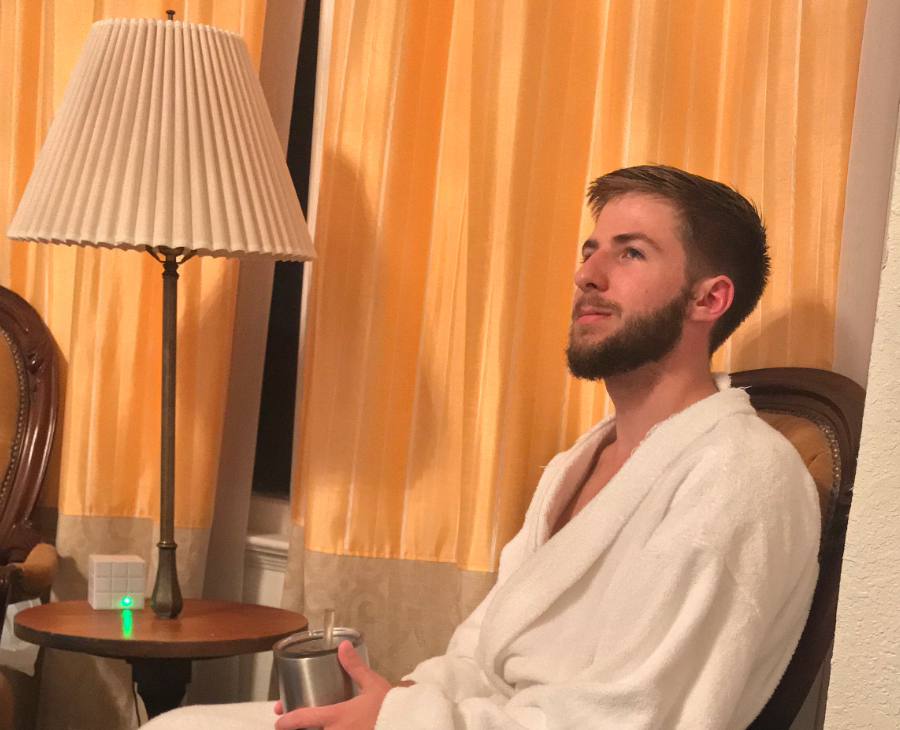
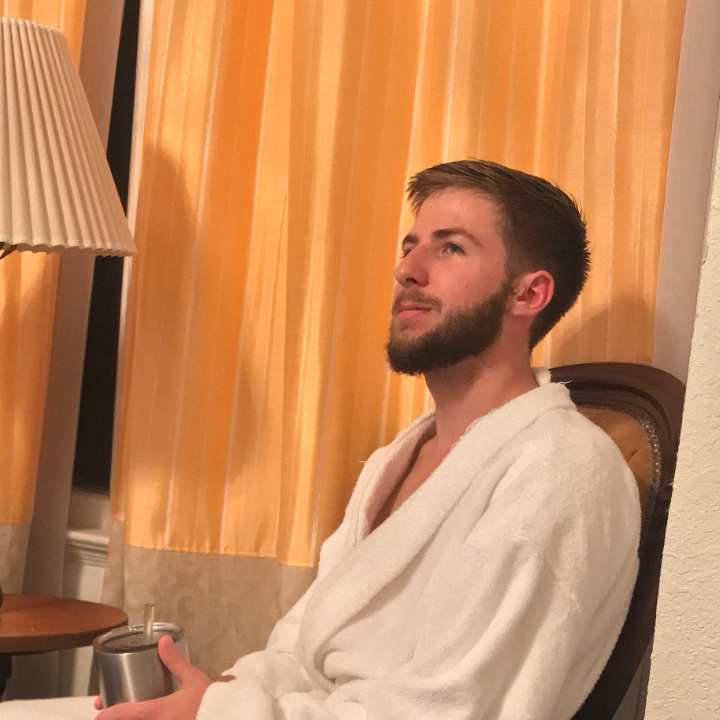
Fixed spelling of my name, and changed my image size so height equals width

diff --git a/pages/About.html b/pages/About.html
@@ -112,7 +112,7 @@
         <div style="padding-bottom: 16px;"  class="col-sm">
             <img src="../images/learnCoordinator.png" alt="Learn Coordinator" class="border-0 shadow-sm img-circular img-thumbnail rounded-circle">
             <h5>Learn Coordinator</h5>
-            <h5>Zachary Gentry</h5>
+            <h5>Zachery Gentry</h5>
         </div>
         <div style="padding-bottom: 16px;"  class="col-sm">
           <img src="../images/vicePresident.jpg" alt="Executive Officer1" class="border-0 shadow-sm img-circular img-thumbnail rounded-circle">
